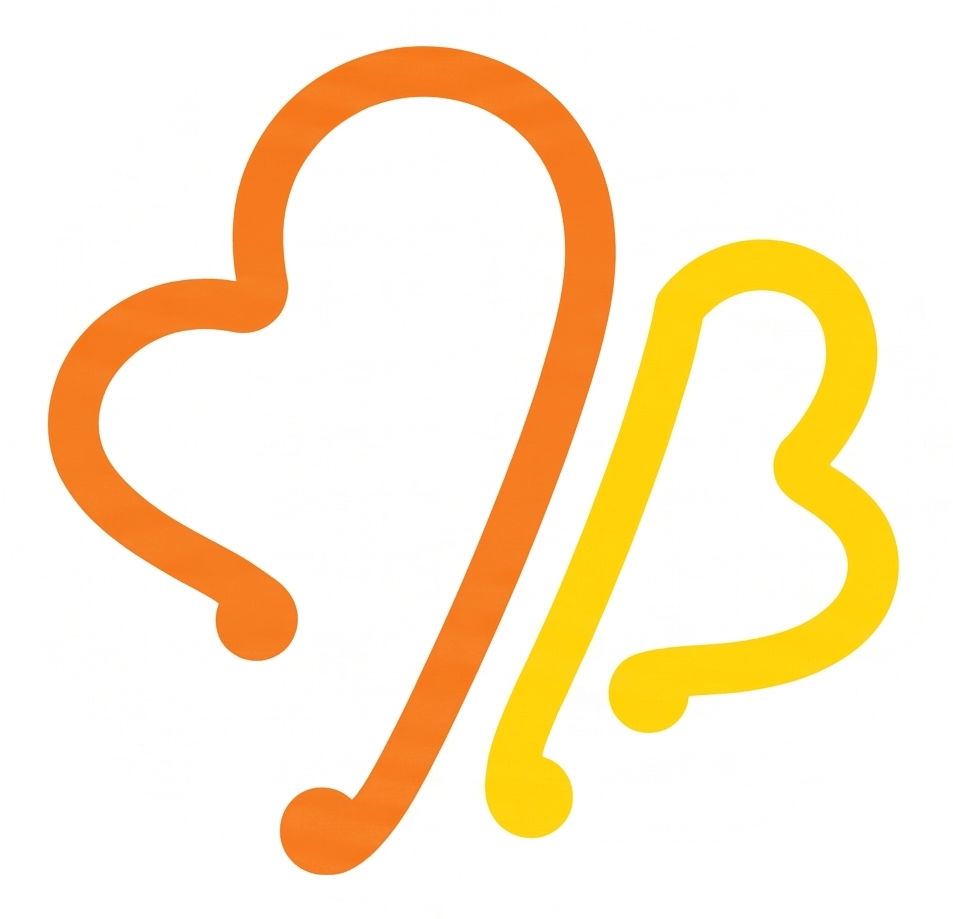
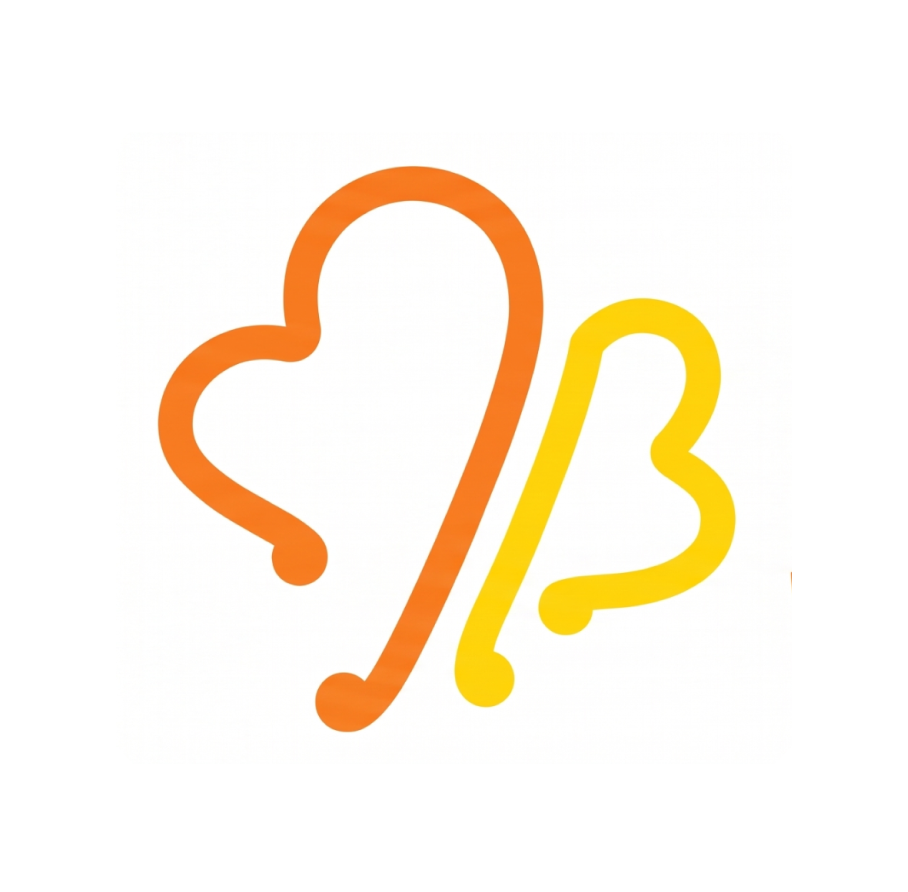
style: remove zoom hover effect from homepage cards

Changed region(s): [[0.0308, 0.0303, 0.9559, 0.9686]]

diff --git a/components/home/DecoratorsPlannersSection.tsx b/components/home/DecoratorsPlannersSection.tsx
@@ -148,7 +148,7 @@ export default function DecoratorsPlannersSection() {
                         alt={item.name}
                         fill
                         sizes="(max-width: 640px) 85vw, (max-width: 768px) 300px, 340px"
-                        className="object-cover transition-transform duration-700 group-hover:scale-105"
+                        className="object-cover transition-transform duration-700"
                       />
 
                       {/* Tag pill top-left */}

diff --git a/components/home/MakeupArtistsSection.tsx b/components/home/MakeupArtistsSection.tsx
@@ -113,7 +113,7 @@ export default function MakeupArtistsSection() {
                         alt={item.name}
                         fill
                         sizes="(max-width: 640px) 85vw, (max-width: 768px) 300px, 340px"
-                        className="object-cover transition-transform duration-700 group-hover:scale-105"
+                        className="object-cover transition-transform duration-700"
                       />
 
                       {/* Tag pill top-left */}

diff --git a/components/home/PhotographersSection.tsx b/components/home/PhotographersSection.tsx
@@ -131,7 +131,7 @@ export default function PhotographersSection() {
                         alt={item.name}
                         fill
                         sizes="(max-width: 640px) 85vw, (max-width: 768px) 300px, 340px"
-                        className="object-cover transition-transform duration-700 group-hover:scale-105"
+                        className="object-cover transition-transform duration-700"
                       />
 
                       {/* Tag pill top-left */}

diff --git a/components/home/TestimonialsSection.tsx b/components/home/TestimonialsSection.tsx
@@ -178,7 +178,7 @@ export default function TestimonialsSection() {
                       src={activeTestimonial.image}
                       alt={activeTestimonial.couple}
                       fill
-                      className="object-cover transition-transform duration-1000 group-hover:scale-105"
+                      className="object-cover transition-transform duration-1000"
                       sizes="(max-width: 1024px) 100vw, 50vw"
                     />
                   ) : (